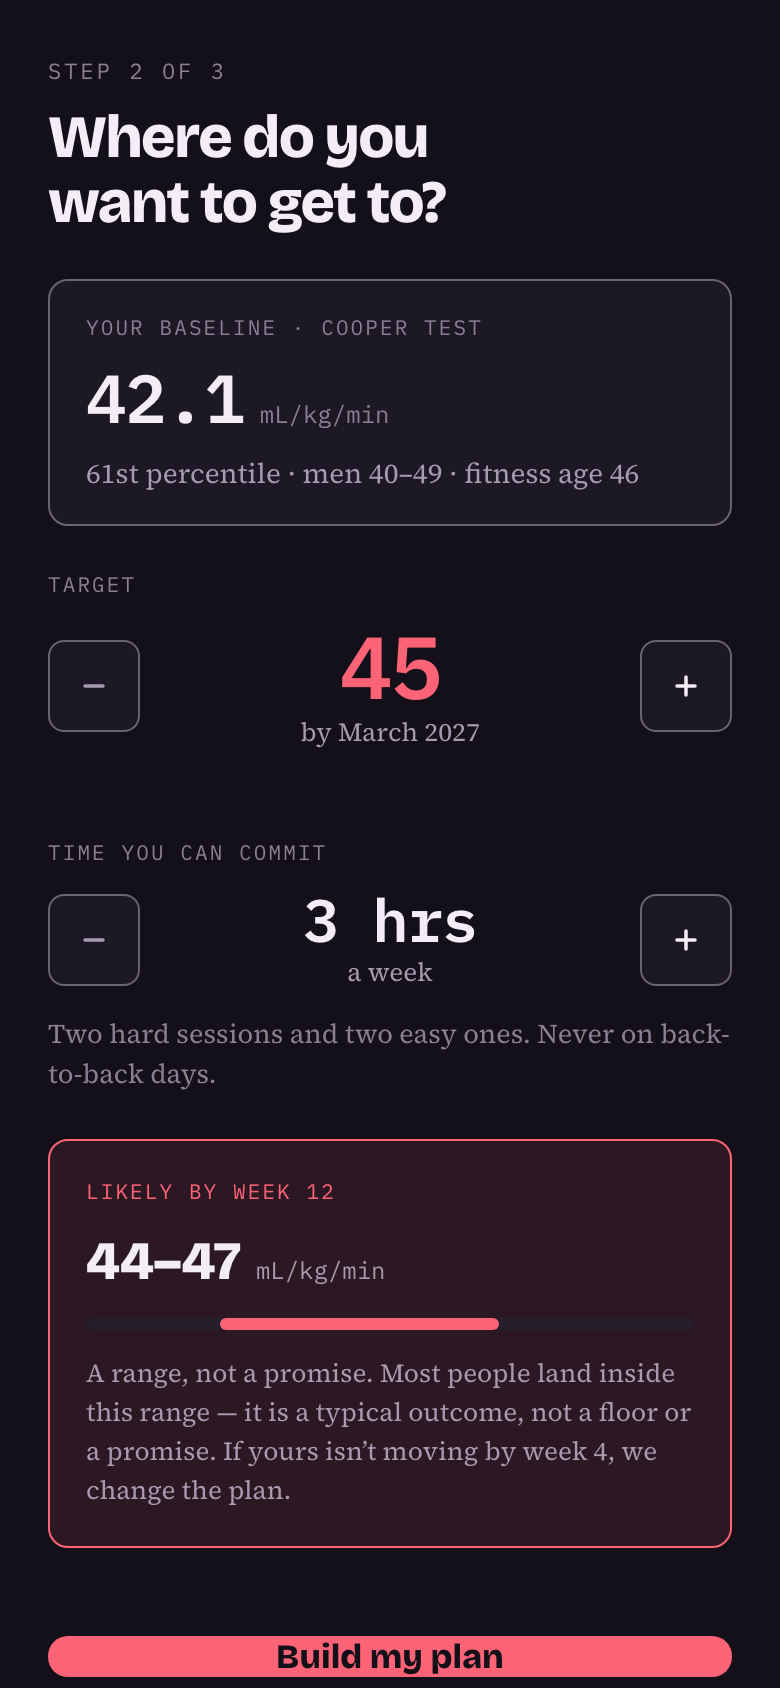
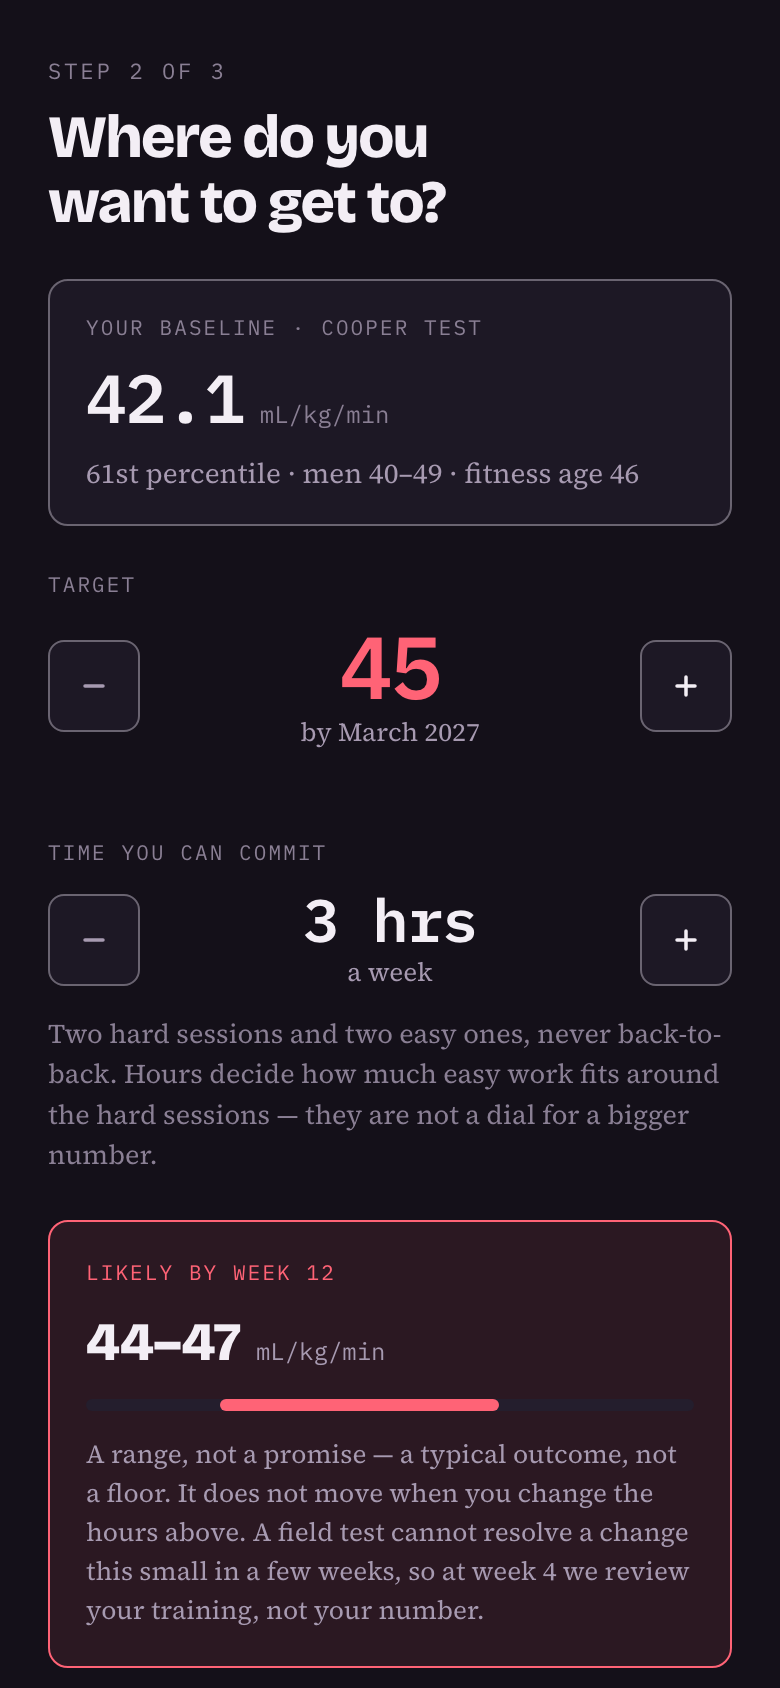
Reposition on the sawtooth; re-shoot Onboarding

Changed region(s): [[0.0615, 0.5853, 0.9538, 1.0], [0.9231, 0.6777, 0.9538, 0.7393], [0.3385, 0.6777, 0.3692, 0.7085]]

diff --git a/index.html b/index.html
@@ -30,9 +30,8 @@
       Uthold
     </a>
     <nav class="site-nav" aria-label="Main">
-      <a href="#returning">Coming back</a>
+      <a href="#volume">Why it’s not higher</a>
       <a href="#how">How it works</a>
-      <a href="#evidence">Why VO₂ max</a>
       <a href="test.html">Free test</a>
       <a href="faq.html">Questions</a>
       <a href="#waitlist">Waitlist</a>
@@ -44,10 +43,10 @@
 
 <div class="wrap hero">
   <p class="eyebrow">Norwegian for “endure” &middot; #VO2MAXXING</p>
-  <h1>You shouldn’t have to pick the workout.</h1>
-  <p class="deck">Uthold takes a baseline, a goal, and the hours you actually have — then decides
-  what you train this week. It spaces the hard days, aims them at the minutes that actually
-  move the number, and backs off when your recovery says to.</p>
+  <h1>Your VO₂ max has a sawtooth. The trough is optional.</h1>
+  <p class="deck">It climbs through a marathon build and slides back after the race — every cycle,
+  for as long as you keep racing. Uthold decides what you train each week to push the peak up, and
+  what it takes to hold the number in between. You don’t pick the workout; it does.</p>
   <div class="cta-row">
     <a class="btn btn-primary" href="test.html">Test your VO₂ max free</a>
     <a class="btn btn-ghost" href="#waitlist">Join the waitlist</a>
@@ -55,25 +54,27 @@
   </div>
 </div>
 
-<section id="difference">
+<section id="volume">
   <div class="wrap">
-    <h2>Most VO₂ max apps hand you a menu.</h2>
-    <p class="lede">Picking the right session every week is the hard part, and it is the part that
-    decides whether the number moves. So that is the part we do.</p>
+    <h2>You run 40 miles a week. That isn’t what raises your VO₂ max.</h2>
+    <p class="lede">It is the most counter-intuitive thing on this page, and it is why plenty of
+    well-trained runners have a number lower than their training load suggests.</p>
     <div class="versus">
       <div class="vcard">
-        <span class="vtag">The usual approach</span>
-        <h3>A timer with presets</h3>
-        <p>Eight protocols in a list. You choose one, you start a countdown, and you work out
-        which to run next week, how hard is hard enough, and what to do when you’re wrecked on
-        Thursday. The app never has an opinion.</p>
+        <span class="vtag">What the miles do</span>
+        <h3>Volume, almost all of it easy</h3>
+        <p>A marathon build accumulates enormous mileage and very little time near your ceiling.
+        You can train seriously for months and barely touch the intensity that moves VO₂ max.
+        More miles will not fix it — and nor will more hours, which is why we won’t sell you a
+        bigger projection for committing more of them.</p>
       </div>
       <div class="vcard ours">
-        <span class="vtag">Uthold</span>
-        <h3>A week, already decided</h3>
-        <p>One goal, one time budget, one baseline. Uthold schedules the sessions, keeps hard days
-        apart, aims each hard one at time above 90% of your maximum, and reduces the load when
-        your recovery signals say to. You open it and train.</p>
+        <span class="vtag">What moves it</span>
+        <h3>Twelve to sixteen minutes</h3>
+        <p>Time above roughly 90% of your maximum heart rate is what the research actually
+        measures, and a properly executed hard session delivers about 12–16 minutes of it. That
+        is the target. Uthold builds the week to get you there and tells you afterwards whether
+        you did — which is a harder number to flatter than a weekly VO₂ max estimate.</p>
       </div>
     </div>
   </div>
@@ -81,10 +82,10 @@
 
 <section id="returning">
   <div class="wrap">
-    <h2>If your number has been higher than it is now.</h2>
-    <p class="lede">Train for a race, watch it climb, finish — and watch most of it go back within
-    a couple of months. That spike and collapse is the most common VO₂ max story there is, and
-    almost nothing on the market is built for the part that comes after.</p>
+    <h2>And then it comes back down. Every time.</h2>
+    <p class="lede">Finish the race, drop the volume, and the number slides — then you build it
+    again from lower than you left it. That cycle is the normal shape of a racing life, at 29 as
+    much as at 59, and almost nothing on the market is built for the part between events.</p>
     <div class="versus">
       <div class="vcard">
         <span class="vtag">What you keep</span>
@@ -114,6 +115,30 @@
       after fifty has not really been studied.</p>
       <cite>Choosing maintenance as a goal is not in the app yet. It is on the list, and we would
       rather say so than show you a screen that doesn’t exist.</cite>
+    </div>
+  </div>
+</section>
+
+<section id="difference">
+  <div class="wrap">
+    <h2>Most VO₂ max apps hand you a menu.</h2>
+    <p class="lede">Picking the right session every week is the hard part, and it is the part that
+    decides whether the number moves. So that is the part we do.</p>
+    <div class="versus">
+      <div class="vcard">
+        <span class="vtag">The usual approach</span>
+        <h3>A timer with presets</h3>
+        <p>Eight protocols in a list. You choose one, you start a countdown, and you work out
+        which to run next week, how hard is hard enough, and what to do when you’re wrecked on
+        Thursday. The app never has an opinion.</p>
+      </div>
+      <div class="vcard ours">
+        <span class="vtag">Uthold</span>
+        <h3>A week, already decided</h3>
+        <p>One goal, one time budget, one baseline. Uthold schedules the sessions, keeps hard days
+        apart, aims each hard one at time above 90% of your maximum, and reduces the load when
+        your recovery signals say to. You open it and train.</p>
+      </div>
     </div>
   </div>
 </section>
@@ -243,7 +268,9 @@
     <h2>Why this number, and what we won’t claim.</h2>
     <p class="lede">VO₂ max is how much oxygen your body can use at full effort. It is one of the
     better-studied markers of cardiorespiratory fitness, and unlike most numbers people track, it
-    responds to training.</p>
+    responds to training. It is also why the off-season is worth more than it looks: the next race
+    is months away, but the health association doesn’t take an off-season — and between events is
+    exactly when holding the number is cheapest.</p>
     <div class="ev">
       <p>Higher cardiorespiratory fitness is <strong>linked to</strong> lower rates of heart disease
       and early death across large populations. In the Norwegian HUNT study, each extra

diff --git a/faq.html b/faq.html
@@ -78,11 +78,12 @@
     <summary>How accurate is the number?</summary>
     <p style="margin-top:12px">A field test <b>estimates</b> VO₂ max. It does not measure it. Only
     a lab test with a mask measures it.</p>
-    <p>The practical consequence is specific. For the Cooper 12-minute run, the smallest change we
-    can distinguish from measurement noise is about <b>320 metres</b>, which works out to roughly
-    7.2 mL/kg/min. For the Rockport walk it is about 4.5. A retest that moves less than that is
-    inside the noise, and we say so rather than congratulating you. Note the reverse too: a change
-    we cannot detect is not the same as no change.</p>
+    <p>The practical consequence is specific. For the Cooper 12-minute run, our <b>estimated</b>
+    threshold for telling two comparable tests apart is about <b>320 metres</b>, which works out to
+    roughly 7.2 mL/kg/min. For the Rockport walk it is about 4.5. A retest that moves less than
+    that, we treat as inside the noise and say so rather than congratulating you. That threshold is
+    our own working estimate, not a settled figure. And note the reverse: a change we cannot detect
+    is not the same as no change.</p>
     <p style="margin-bottom:0">Watch estimates have their own problem — a wearable VO₂ max trend
     carries something like <b>13.3% error</b>, which is wider than most of the gains anyone is
     trying to see. That is why the app leads on minutes above 90% of your maximum heart rate, which
